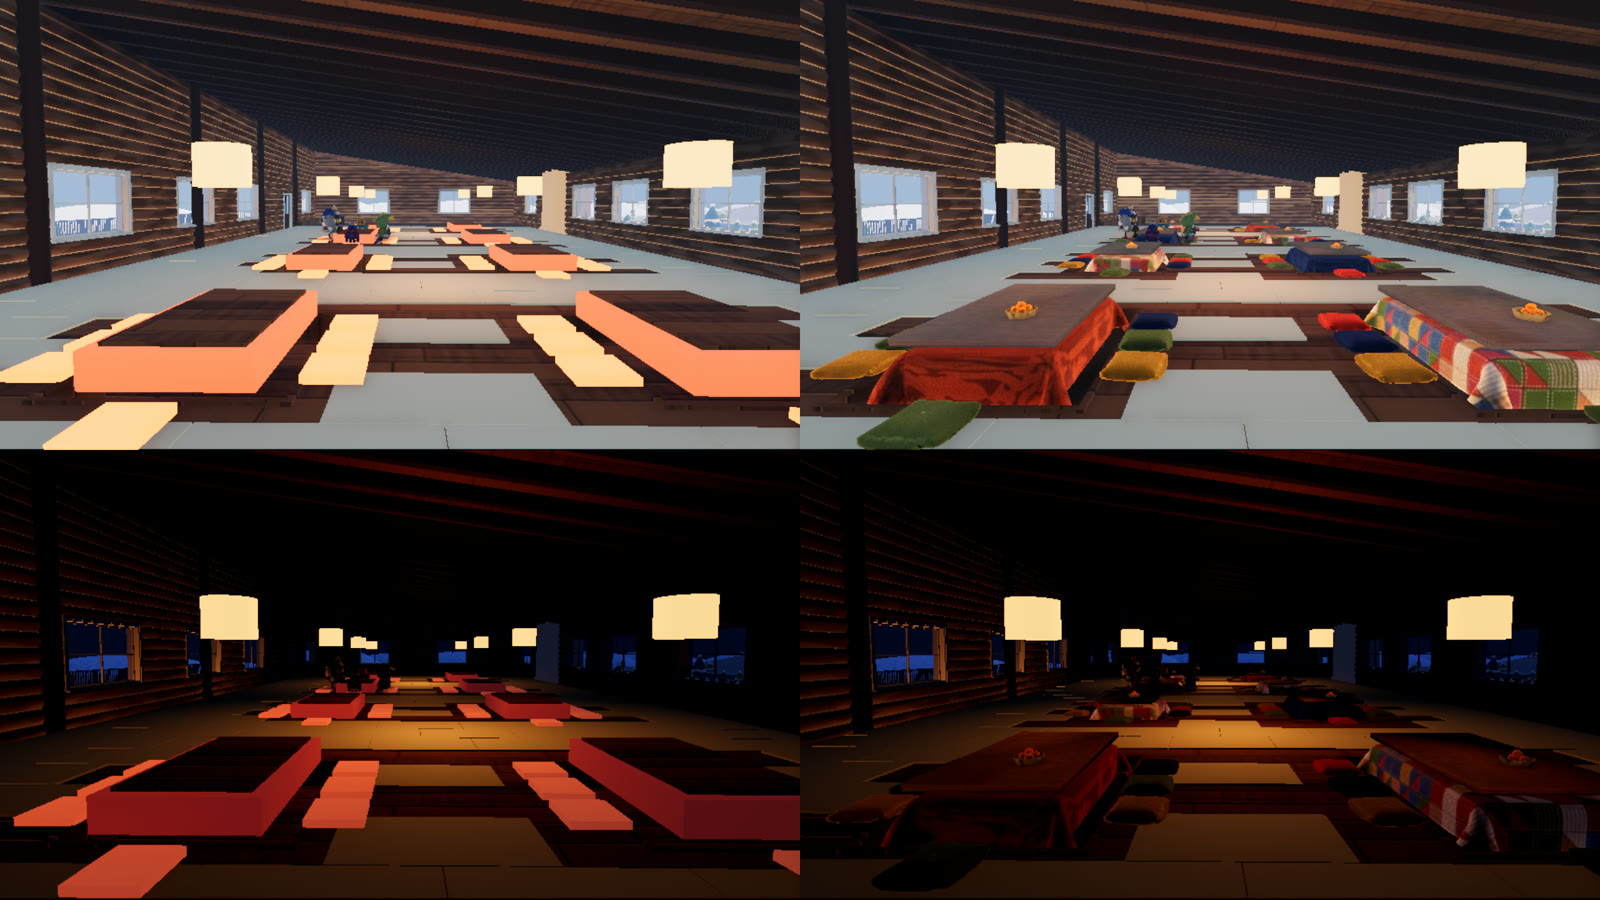
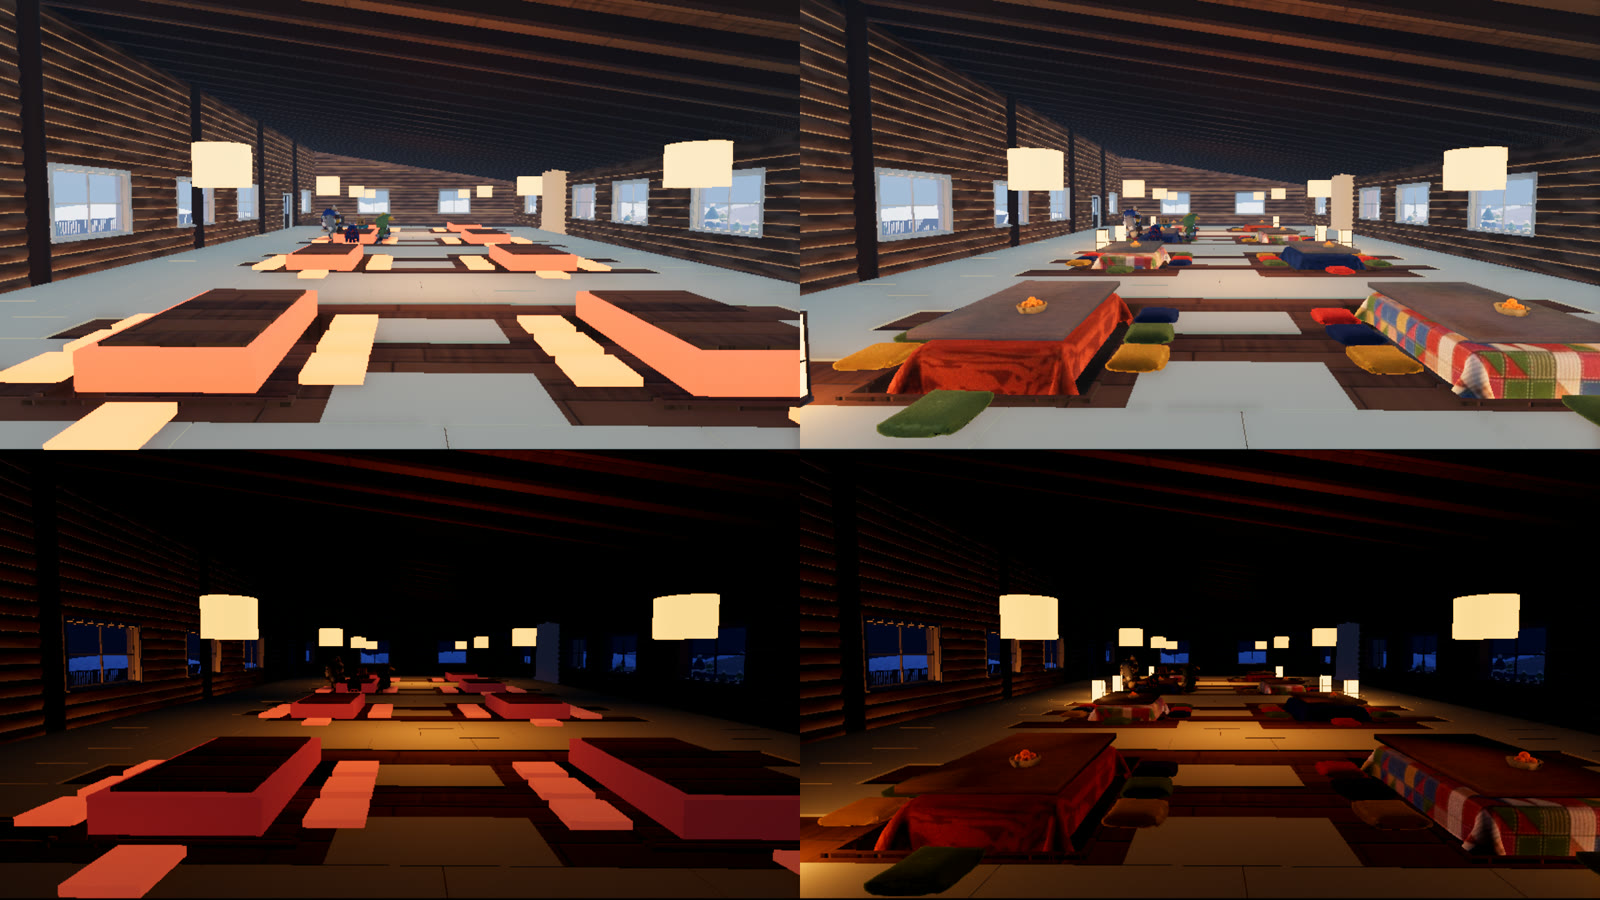
2 階のこたつの横に行灯を置く（代表「行灯を置く」）
各卓の壁の側の隅に 1 つ（人の大きさ、灯りは影なし）。人がすり抜けない当たりの箱。前と後の絵を撮り直した

diff --git a/lodge/README.md b/lodge/README.md
@@ -72,4 +72,4 @@ Blender 5.2 を画面なしで動かす。外の素材は使わない。
 | `05-day-kotatsu.png` | カット 4: 2 階の掘りごたつ |
 | `05-day-terrace.png` | カット 5: テラスから丘 |
 | `06-kotatsu-swap-*.jpg` | 2 階のこたつの差し替え（ゲームの画面。左が前、右が後。上が昼、下が夜）。`-sit-side` は 7 体を座布団に座らせた横から（`06-kotatsu-before-sit-side` が前） |
-| `06-kotatsu-option-*.jpg` | 代表に聞く案: 行灯を置く（夜）、柄をパッチワークにそろえる |
+| `06-kotatsu-option-pattern.jpg` | 代表に聞く案: 柄をパッチワークにそろえる（右） |
